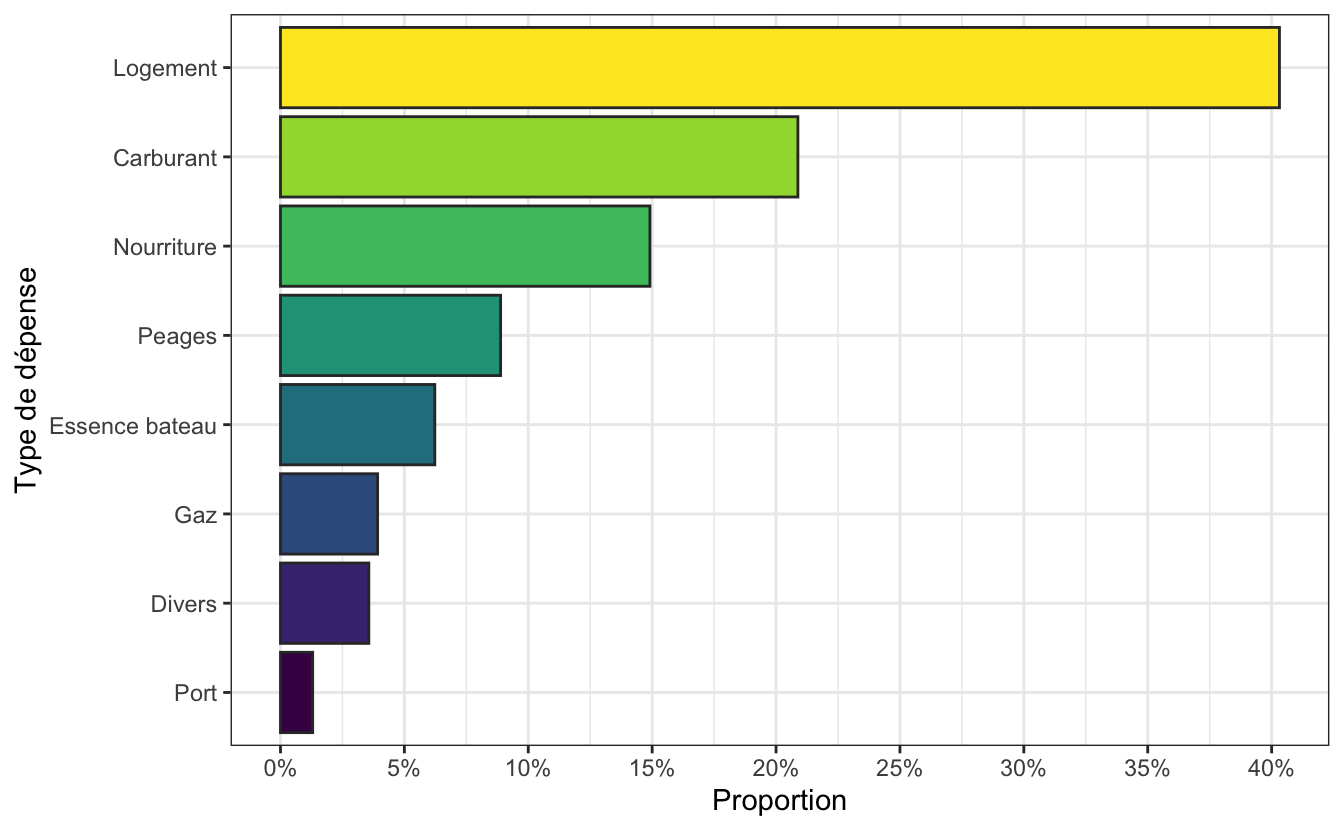
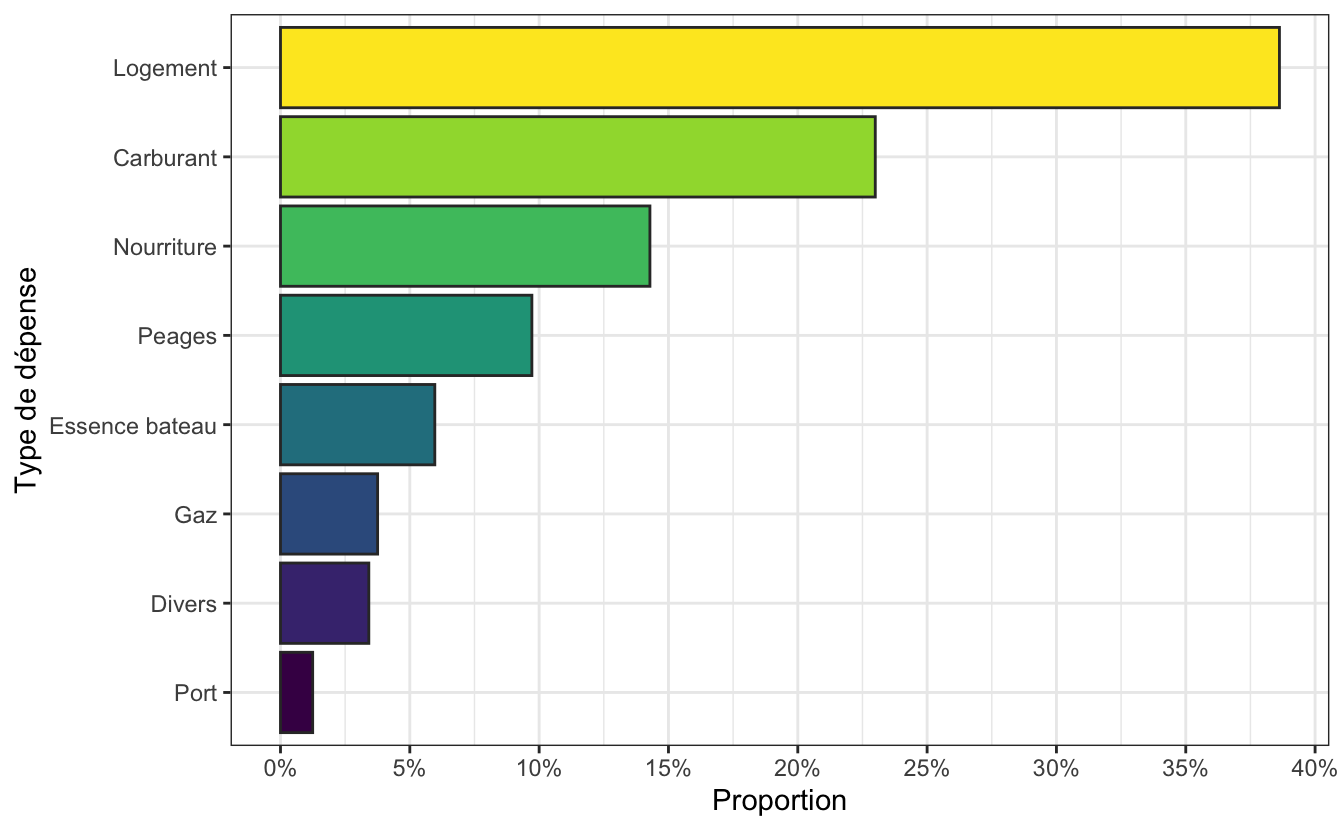
Intégration des dernières dépenses de la famille Praud pour Cavalaire 2025

diff --git a/docs/Cavalaire2025.html b/docs/Cavalaire2025.html
@@ -327,7 +327,7 @@ ul.task-list li input[type="checkbox"] {
     <div>
     <div class="quarto-title-meta-heading">Dernière Mise à jour</div>
     <div class="quarto-title-meta-contents">
-      <p class="date">mercredi 30 avril 2025</p>
+      <p class="date">mardi 6 mai 2025</p>
     </div>
   </div>
   
@@ -718,11 +718,11 @@ Table&nbsp;4: Dépenses hors plongées engagées par les participants à la sort
 <td style="text-align: right;">Pierre</td>
 <td style="text-align: right;">266.66€</td>
 <td style="text-align: right;">207.72€</td>
-<td style="text-align: right;">101.56€</td>
-<td style="text-align: right;">68.90€</td>
+<td style="text-align: right;">272.07€</td>
+<td style="text-align: right;">137.80€</td>
 <td style="text-align: right;">0€</td>
 <td style="text-align: right;">0€</td>
-<td style="text-align: right;">644.84€</td>
+<td style="text-align: right;">884.25€</td>
 </tr>
 <tr class="odd">
 <td style="text-align: right; border-bottom: 1px solid;">Thomas</td>
@@ -738,11 +738,11 @@ Table&nbsp;4: Dépenses hors plongées engagées par les participants à la sort
 <td style="text-align: right; font-weight: bold;">Total</td>
 <td style="text-align: right; font-weight: bold;">2,201.04€</td>
 <td style="text-align: right; font-weight: bold;">813.98€</td>
-<td style="text-align: right; font-weight: bold;">1,140.01€</td>
-<td style="text-align: right; font-weight: bold;">485.00€</td>
+<td style="text-align: right; font-weight: bold;">1,310.52€</td>
+<td style="text-align: right; font-weight: bold;">553.90€</td>
 <td style="text-align: right; font-weight: bold;">0€</td>
 <td style="text-align: right; font-weight: bold;">0€</td>
-<td style="text-align: right; font-weight: bold;">4,640.03€</td>
+<td style="text-align: right; font-weight: bold;">4,879.44€</td>
 </tr>
 </tbody>
 </table>
@@ -827,8 +827,8 @@ Table&nbsp;6: Coûts unitaires par personne
 <tr class="odd">
 <td style="text-align: right;">34.94€</td>
 <td style="text-align: right;">4.31€</td>
-<td style="text-align: right;">126.67€</td>
-<td style="text-align: right;">53.89€</td>
+<td style="text-align: right;">145.61€</td>
+<td style="text-align: right;">61.54€</td>
 </tr>
 </tbody>
 </table>
@@ -897,33 +897,33 @@ Table&nbsp;7: Bilan des coûts par plongeur et par poste
 </tr>
 <tr class="even">
 <td style="text-align: right;">Carburant</td>
-<td style="text-align: right;">126.67€</td>
-<td style="text-align: right;">126.67€</td>
-<td style="text-align: right;">126.67€</td>
-<td style="text-align: right;">253.34€</td>
-<td style="text-align: right;">126.67€</td>
-<td style="text-align: right;">253.34€</td>
-<td style="text-align: right;">126.67€</td>
+<td style="text-align: right;">145.61€</td>
+<td style="text-align: right;">145.61€</td>
+<td style="text-align: right;">145.61€</td>
+<td style="text-align: right;">291.23€</td>
+<td style="text-align: right;">145.61€</td>
+<td style="text-align: right;">291.23€</td>
+<td style="text-align: right;">145.61€</td>
 </tr>
 <tr class="odd">
 <td style="text-align: right; border-bottom: 1px solid;">Peage</td>
-<td style="text-align: right; border-bottom: 1px solid;">53.89€</td>
-<td style="text-align: right; border-bottom: 1px solid;">53.89€</td>
-<td style="text-align: right; border-bottom: 1px solid;">53.89€</td>
-<td style="text-align: right; border-bottom: 1px solid;">107.78€</td>
-<td style="text-align: right; border-bottom: 1px solid;">53.89€</td>
-<td style="text-align: right; border-bottom: 1px solid;">107.78€</td>
-<td style="text-align: right; border-bottom: 1px solid;">53.89€</td>
+<td style="text-align: right; border-bottom: 1px solid;">61.54€</td>
+<td style="text-align: right; border-bottom: 1px solid;">61.54€</td>
+<td style="text-align: right; border-bottom: 1px solid;">61.54€</td>
+<td style="text-align: right; border-bottom: 1px solid;">123.09€</td>
+<td style="text-align: right; border-bottom: 1px solid;">61.54€</td>
+<td style="text-align: right; border-bottom: 1px solid;">123.09€</td>
+<td style="text-align: right; border-bottom: 1px solid;">61.54€</td>
 </tr>
 <tr class="even">
 <td style="text-align: right; font-weight: bold;">Total</td>
-<td style="text-align: right; font-weight: bold;">669.98€</td>
-<td style="text-align: right; font-weight: bold;">669.98€</td>
-<td style="text-align: right; font-weight: bold;">669.98€</td>
-<td style="text-align: right; font-weight: bold;">1,185.54€</td>
-<td style="text-align: right; font-weight: bold;">669.98€</td>
-<td style="text-align: right; font-weight: bold;">1,053.18€</td>
-<td style="text-align: right; font-weight: bold;">669.98€</td>
+<td style="text-align: right; font-weight: bold;">696.58€</td>
+<td style="text-align: right; font-weight: bold;">696.58€</td>
+<td style="text-align: right; font-weight: bold;">696.58€</td>
+<td style="text-align: right; font-weight: bold;">1,238.74€</td>
+<td style="text-align: right; font-weight: bold;">696.58€</td>
+<td style="text-align: right; font-weight: bold;">1,106.38€</td>
+<td style="text-align: right; font-weight: bold;">696.58€</td>
 </tr>
 </tbody>
 </table>
@@ -949,37 +949,37 @@ Table&nbsp;7: Bilan des coûts par plongeur et par poste
 <tr class="odd">
 <td style="text-align: right;">Baptiste</td>
 <td style="text-align: right;">rembourse à l'AP</td>
-<td style="text-align: right;">40.07€</td>
+<td style="text-align: right;">66.67€</td>
 </tr>
 <tr class="even">
 <td style="text-align: right;">Jean-Claude</td>
 <td style="text-align: right;">rembourse à l'AP</td>
-<td style="text-align: right;">218.69€</td>
+<td style="text-align: right;">245.29€</td>
 </tr>
 <tr class="odd">
 <td style="text-align: right;">Jérôme</td>
 <td style="text-align: right;">rembourse à l'AP</td>
-<td style="text-align: right;">152.23€</td>
+<td style="text-align: right;">205.43€</td>
 </tr>
 <tr class="even">
 <td style="text-align: right;">Nathalie</td>
 <td style="text-align: right;">rembourse à l'AP</td>
-<td style="text-align: right;">258.05€</td>
+<td style="text-align: right;">284.65€</td>
+</tr>
+<tr class="odd">
+<td style="text-align: right;">Thomas</td>
+<td style="text-align: right;">rembourse à l'AP</td>
+<td style="text-align: right;">71.42€</td>
+</tr>
+<tr class="even">
+<td style="text-align: right;">Benoît</td>
+<td style="text-align: right;">se fait rembourser par l'AP</td>
+<td style="text-align: right;">607.91€</td>
 </tr>
 <tr class="odd">
 <td style="text-align: right;">Pierre</td>
-<td style="text-align: right;">rembourse à l'AP</td>
-<td style="text-align: right;">49.73€</td>
-</tr>
-<tr class="even">
-<td style="text-align: right;">Thomas</td>
-<td style="text-align: right;">rembourse à l'AP</td>
-<td style="text-align: right;">44.82€</td>
-</tr>
-<tr class="odd">
-<td style="text-align: right;">Benoît</td>
 <td style="text-align: right;">se fait rembourser par l'AP</td>
-<td style="text-align: right;">634.51€</td>
+<td style="text-align: right;">136.48€</td>
 </tr>
 </tbody>
 </table>
